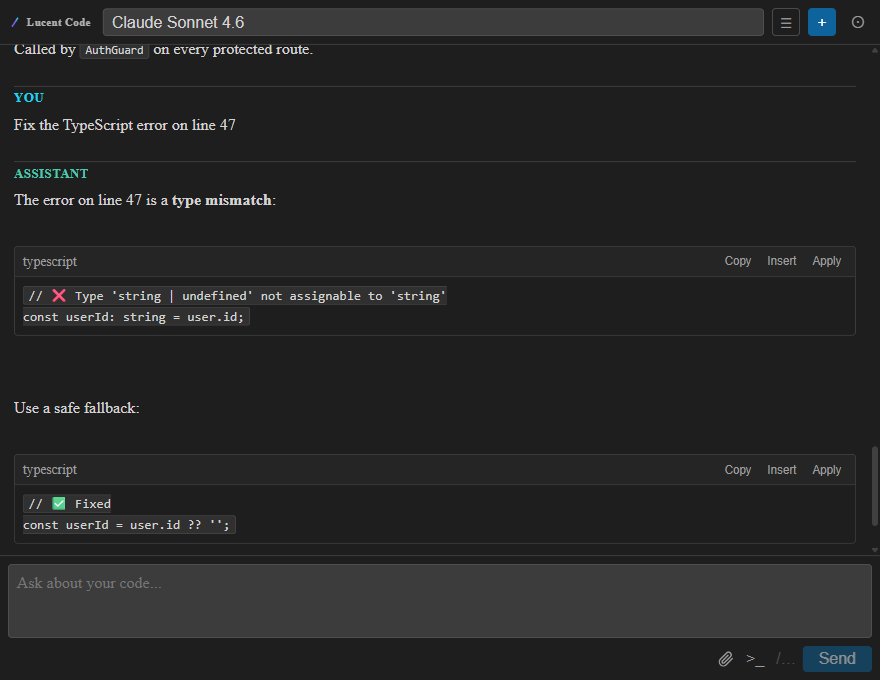
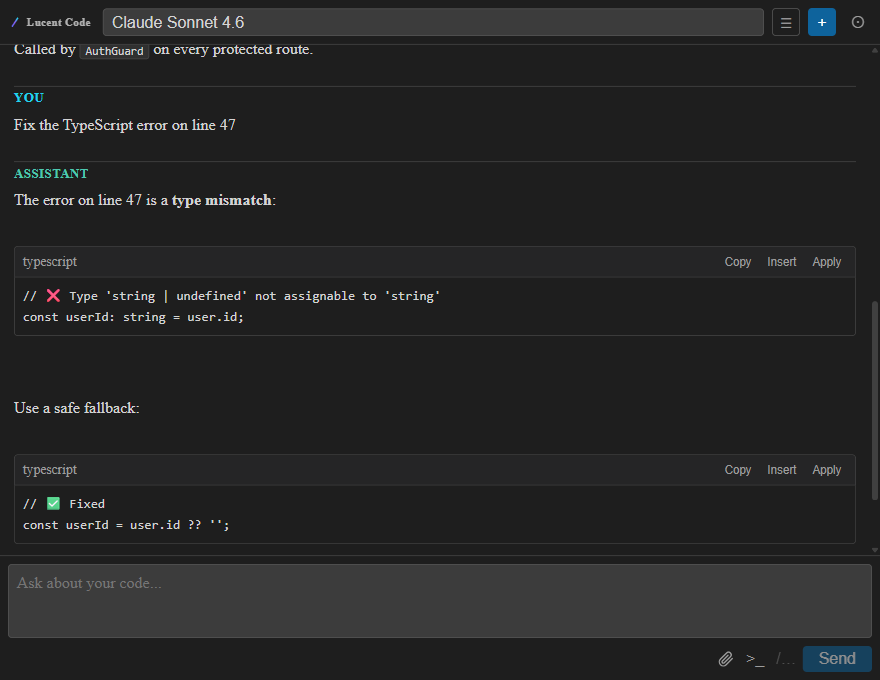
fix(webview): code block background fills full width, update screenshots
Reset inline code styles (background, border, padding) that were leaking
into block code elements via .message-content code selector.
Retake marketing screenshots to reflect the fix.

diff --git a/webview/src/styles.css b/webview/src/styles.css
@@ -308,6 +308,10 @@ body {
 .code-block code {
   font-family: var(--vscode-editor-font-family);
   font-size: var(--vscode-editor-font-size);
+  background: none;
+  border: none;
+  padding: 0;
+  border-radius: 0;
 }
 
 /* Empty State */
